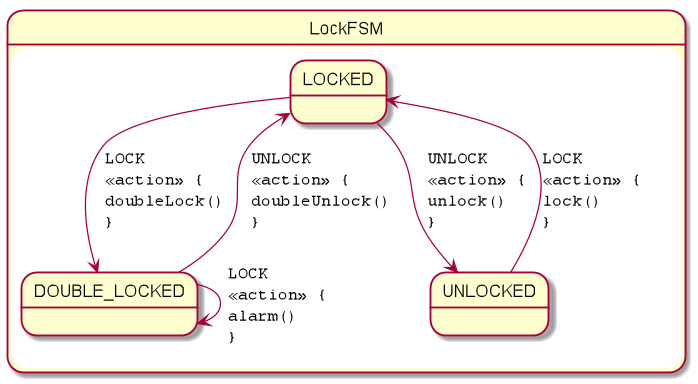
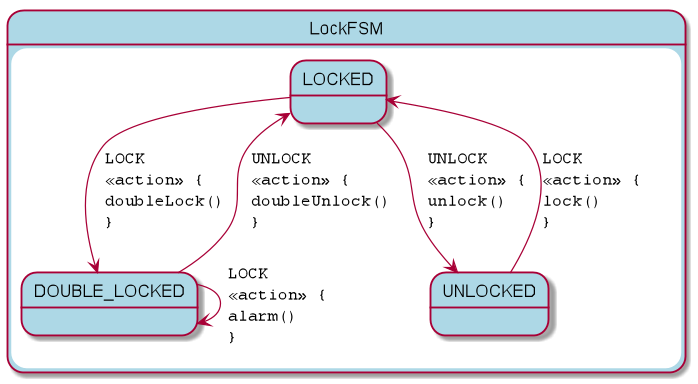
added visualization

Changed region(s): [[0.0, 0.0312, 0.9928, 0.9688], [0.6017, 0.6875, 0.7822, 0.875], [0.3911, 0.1562, 0.5716, 0.3438]]

diff --git a/src/jvmTest/kotlin/SimpleVisualizeFSM.kt b/src/jvmTest/kotlin/SimpleVisualizeFSM.kt
@@ -1,0 +1,25 @@
+package io.jumpco.open.kfsm.sample
+
+import io.jumpco.open.kfsm.viz.plantUml
+import io.jumpco.open.kfsm.viz.visualize
+import org.junit.Before
+import org.junit.Test
+import java.io.File
+
+class SimpleVisualizeFSM {
+    @Before
+    fun setup() {
+        val generated = File("generated")
+        if (generated.exists() && !generated.isDirectory) {
+            error("Expected generated to be a directory")
+        } else if (!generated.exists()) {
+            generated.mkdirs()
+        }
+    }
+
+    @Test
+    fun simpleVisualization() {
+        val visualization = visualize(LockFSM.definition)
+        File("generated", "lock-simple.plantuml").writeText(plantUml(visualization))
+    }
+}

diff --git a/src/jvmTest/kotlin/VisualizeFSM.kt b/src/jvmTest/kotlin/VisualizeFSM.kt
@@ -1,8 +1,8 @@
 package io.jumpco.open.kfsm.sample
 
 import io.jumpco.open.kfsm.viz.Parser.parseStateMachine
-import io.jumpco.open.kfsm.viz.Visualization.asciiDoc
 import io.jumpco.open.kfsm.viz.Visualization.plantUml
+import io.jumpco.open.kfsm.viz.Visualization.asciiDoc
 import org.junit.Before
 import org.junit.Test
 import java.io.File
@@ -17,7 +17,6 @@ class VisualizeFSM {
             generated.mkdirs()
         }
     }
-
     @Test
     fun visualizeLock() {
         val visualisation = parseStateMachine(

diff --git a/src/commonMain/kotlin/io/jumpco/open/kfsm/sample/lock.kt b/src/commonMain/kotlin/io/jumpco/open/kfsm/sample/lock.kt
@@ -58,7 +58,7 @@ enum class LockEvents {
 
 class LockFSM(context: Lock) {
     companion object {
-        private val definition = stateMachine(
+        val definition = stateMachine(
             LockStates.values().toSet(),
             LockEvents.values().toSet(),
             Lock::class
